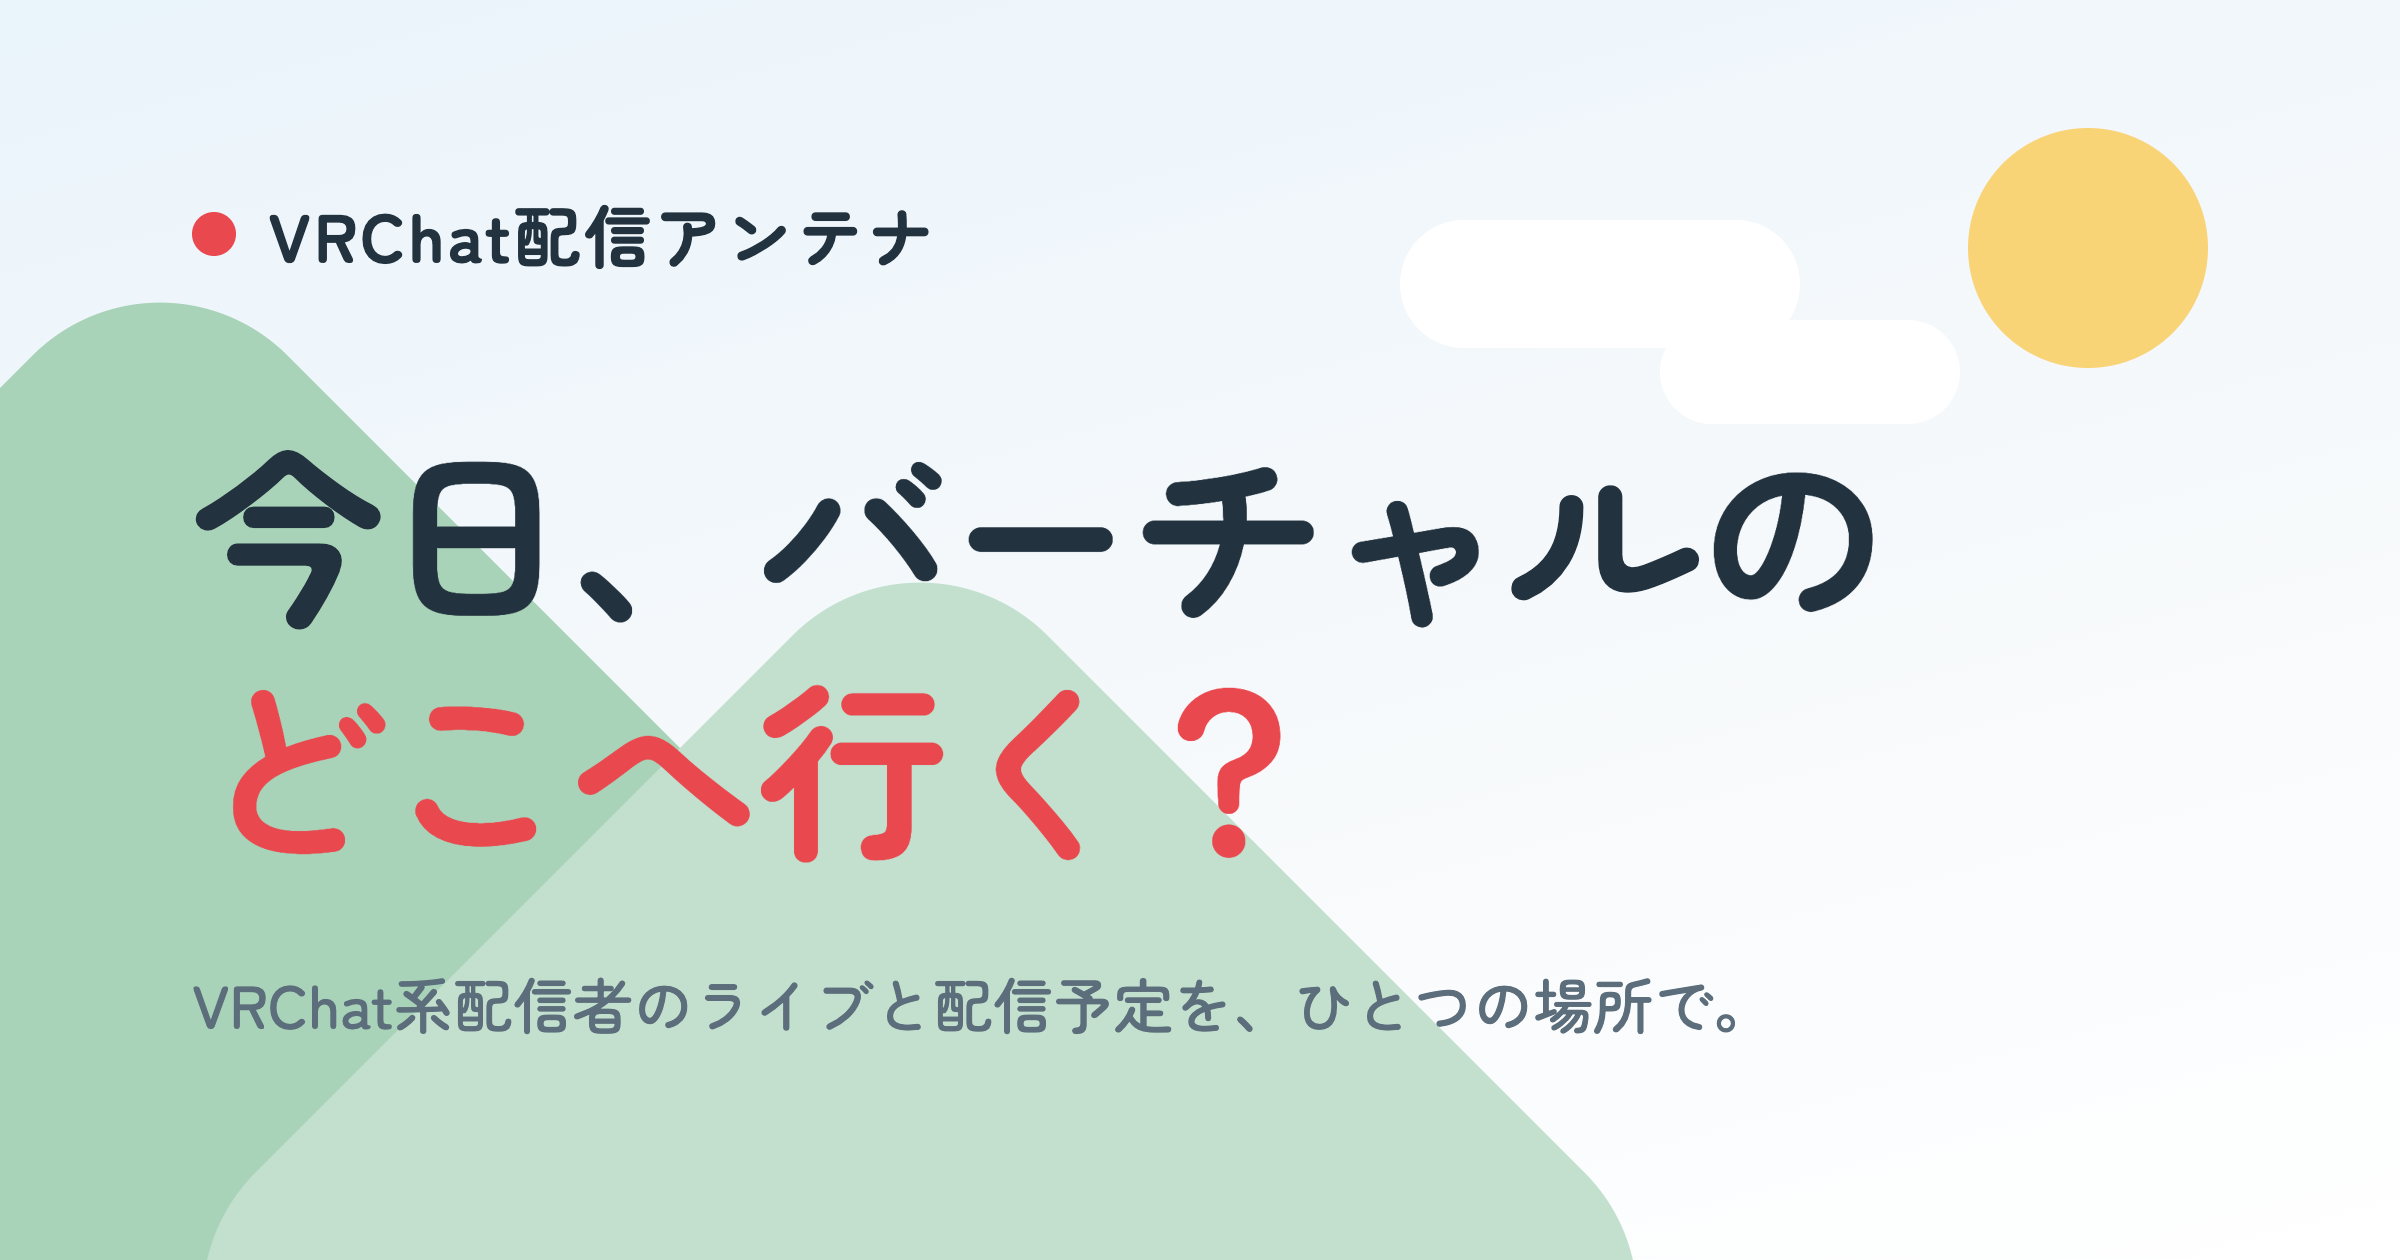
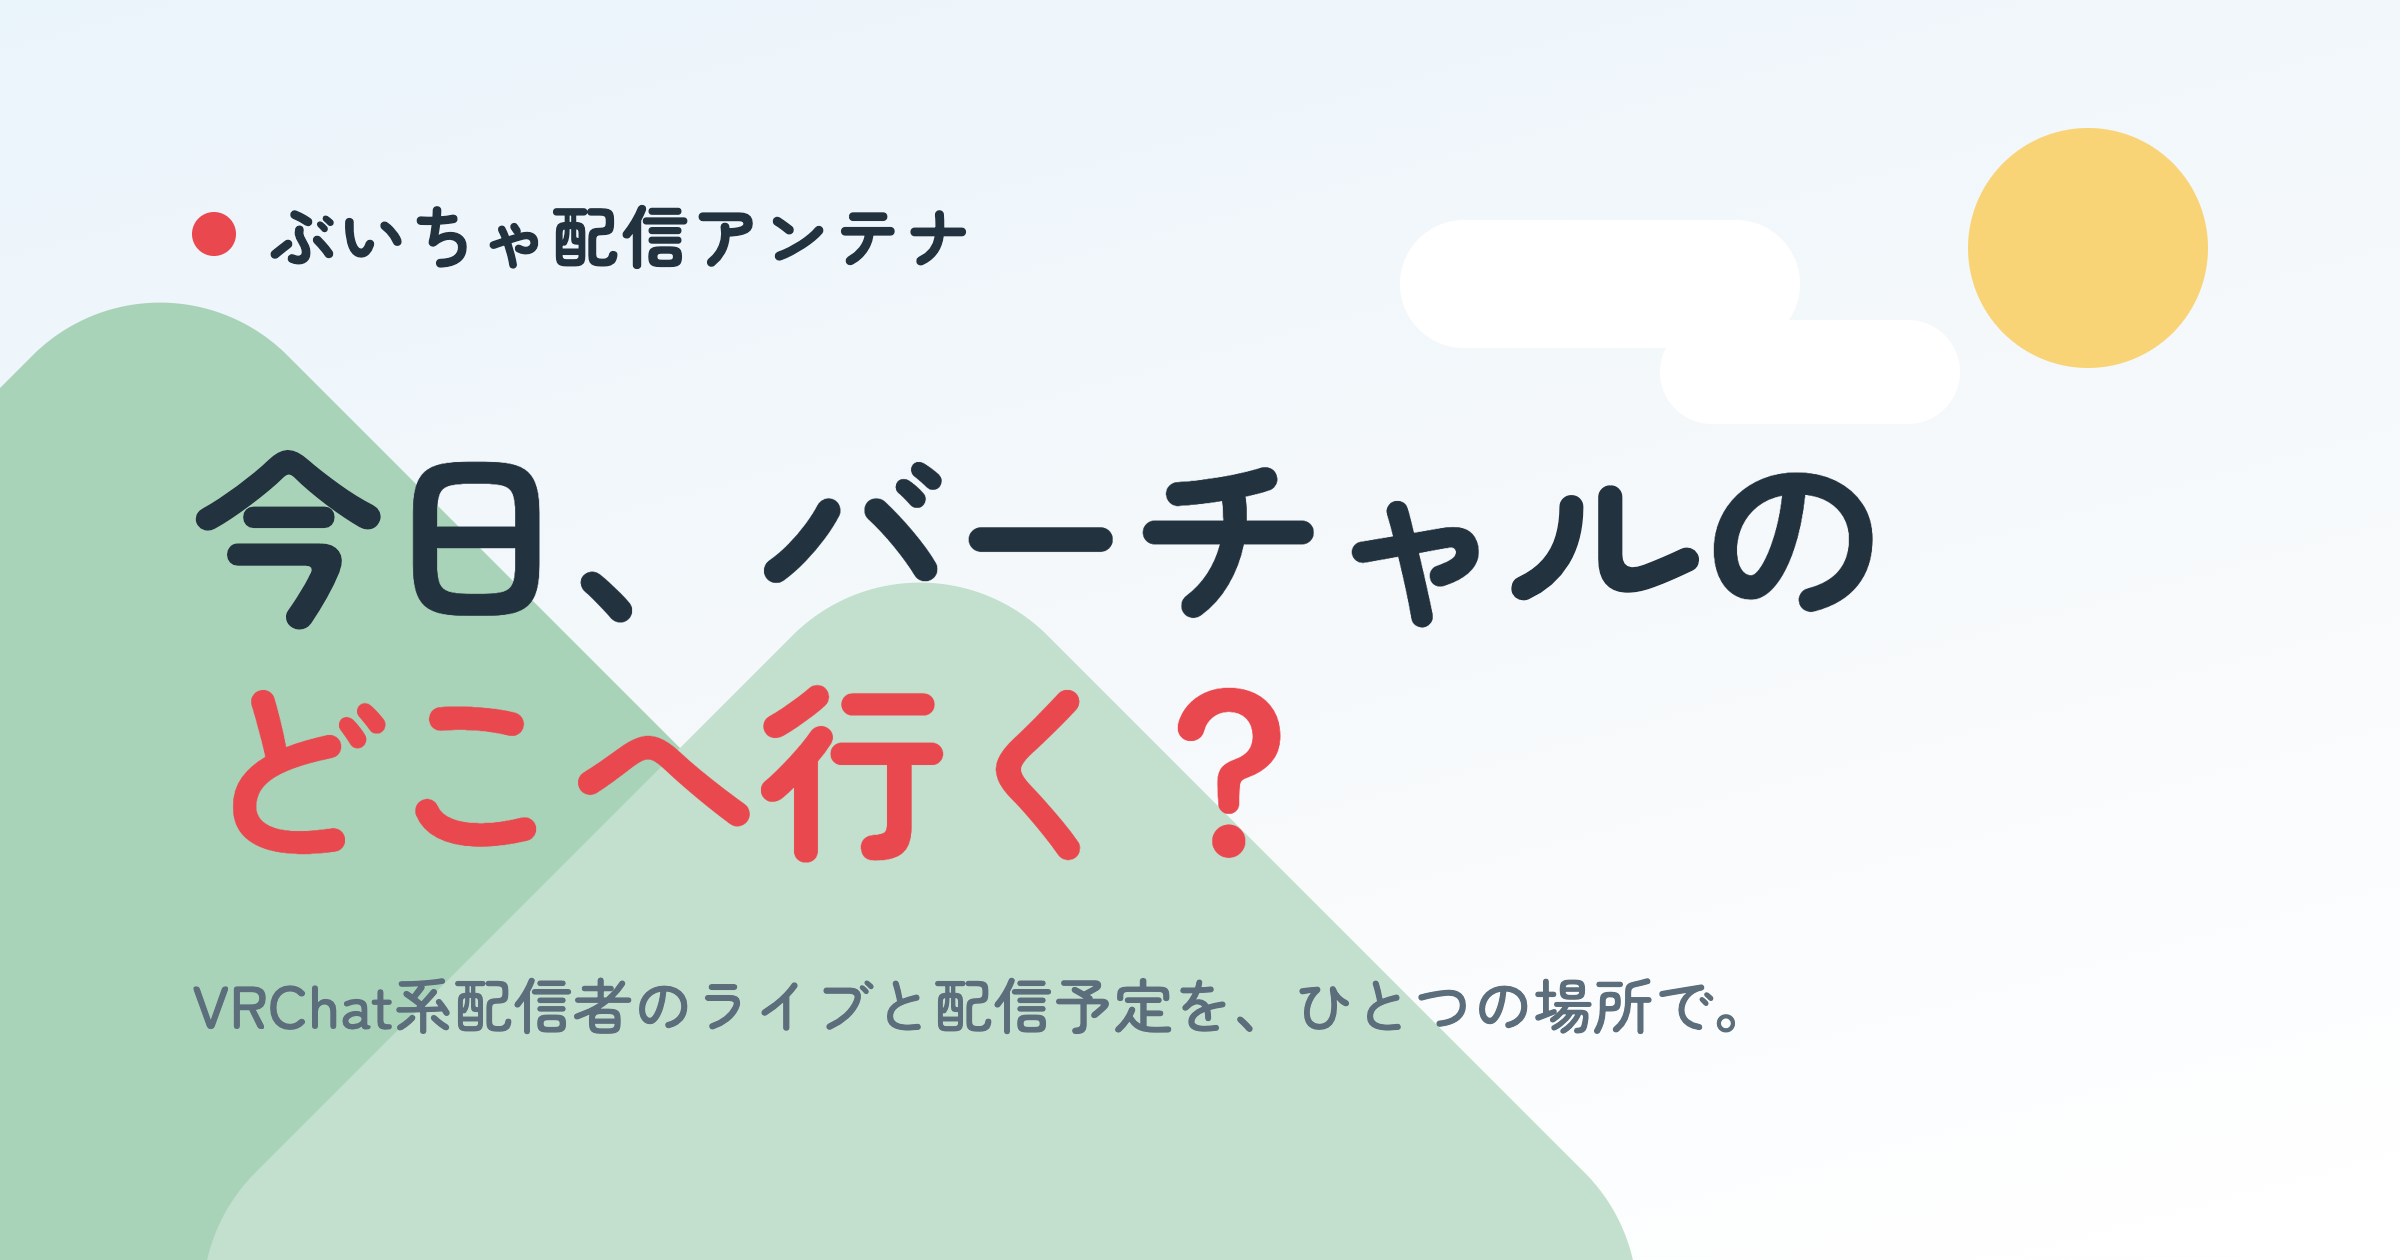
feat: 日本語正式名称を「ぶいちゃ配信アンテナ」に変更(英名 VRChat Stream Antenna は不変)

Changed region(s): [[0.0938, 0.1548, 0.4062, 0.2167]]

diff --git a/_doc/cclog.md b/_doc/cclog.md
@@ -272,3 +272,20 @@ https://api.github.com/repos/hir0chan/VRSP/actions/workflows/update.yml/dispatch
 
 iftttみたらたしかに通ってますね。
 でも本番ページの最終更新の日付が変わっていない気が？
+
+---
+
+1は私がやることなので配慮不要、2はそもそも対応不要です。
+
+正式名称を英名と日名で別に持たせます。
+英名については将来的な多言語対応を睨んだものですが、いったんは日名変更に伴う改修に集中します。
+
+正式名称を`ぶいちゃ配信アンテナ`とします。
+現時点においても英語表記が存在すると思います。こちらは「そのままでOK」です。
+というか、これをそのまま英名正式名称とします。
+
+将来的に多言語対応にするといっても、
+既存UIの英語表記をすべて日本語に直すようなことはしません。
+UIにおける日英混在はWEBにおいては普通のことであり、むしろデザイン面においては優れる場合もあるためです。
+
+日名正式名称変更のための作業に着手してください。

diff --git a/CLAUDE.md b/CLAUDE.md
@@ -4,7 +4,7 @@ This file provides guidance to Claude Code (claude.ai/code) when working with co
 
 ## プロジェクト概要
 
-VRChat配信アンテナ(旧称: VRChat Stream Schedule Portal)— VRChat系 YouTube 配信者のライブ配信・配信予定を一覧するポータル。**公開稼働中**: https://hir0chan.github.io/VRSP/ (リポジトリ: hir0chan/VRSP)
+ぶいちゃ配信アンテナ(英名: VRChat Stream Antenna。UI の日英混在は意図的な設計判断)— VRChat系 YouTube 配信者のライブ配信・配信予定を一覧するポータル。**公開稼働中**: https://hir0chan.github.io/VRSP/ (リポジトリ: hir0chan/VRSP)
 
 GitHub Actions が15分毎に YouTube Data API v3 からデータを取得し、静的ビルドして GitHub Pages へ自動デプロイする。サーバ常駐・DB なし。
 

diff --git a/README.md b/README.md
@@ -1,10 +1,10 @@
-# VRChat配信アンテナ
+# ぶいちゃ配信アンテナ
 
 VRChat系配信者のライブ配信と今後の配信予定を、ひとつの場所にまとめたスケジュールポータルです。
 
 **🌐 https://hir0chan.github.io/VRSP/**
 
-![VRChat配信アンテナ](public/images/ogp.png)
+![ぶいちゃ配信アンテナ](public/images/ogp.png)
 
 ## 特徴
 
